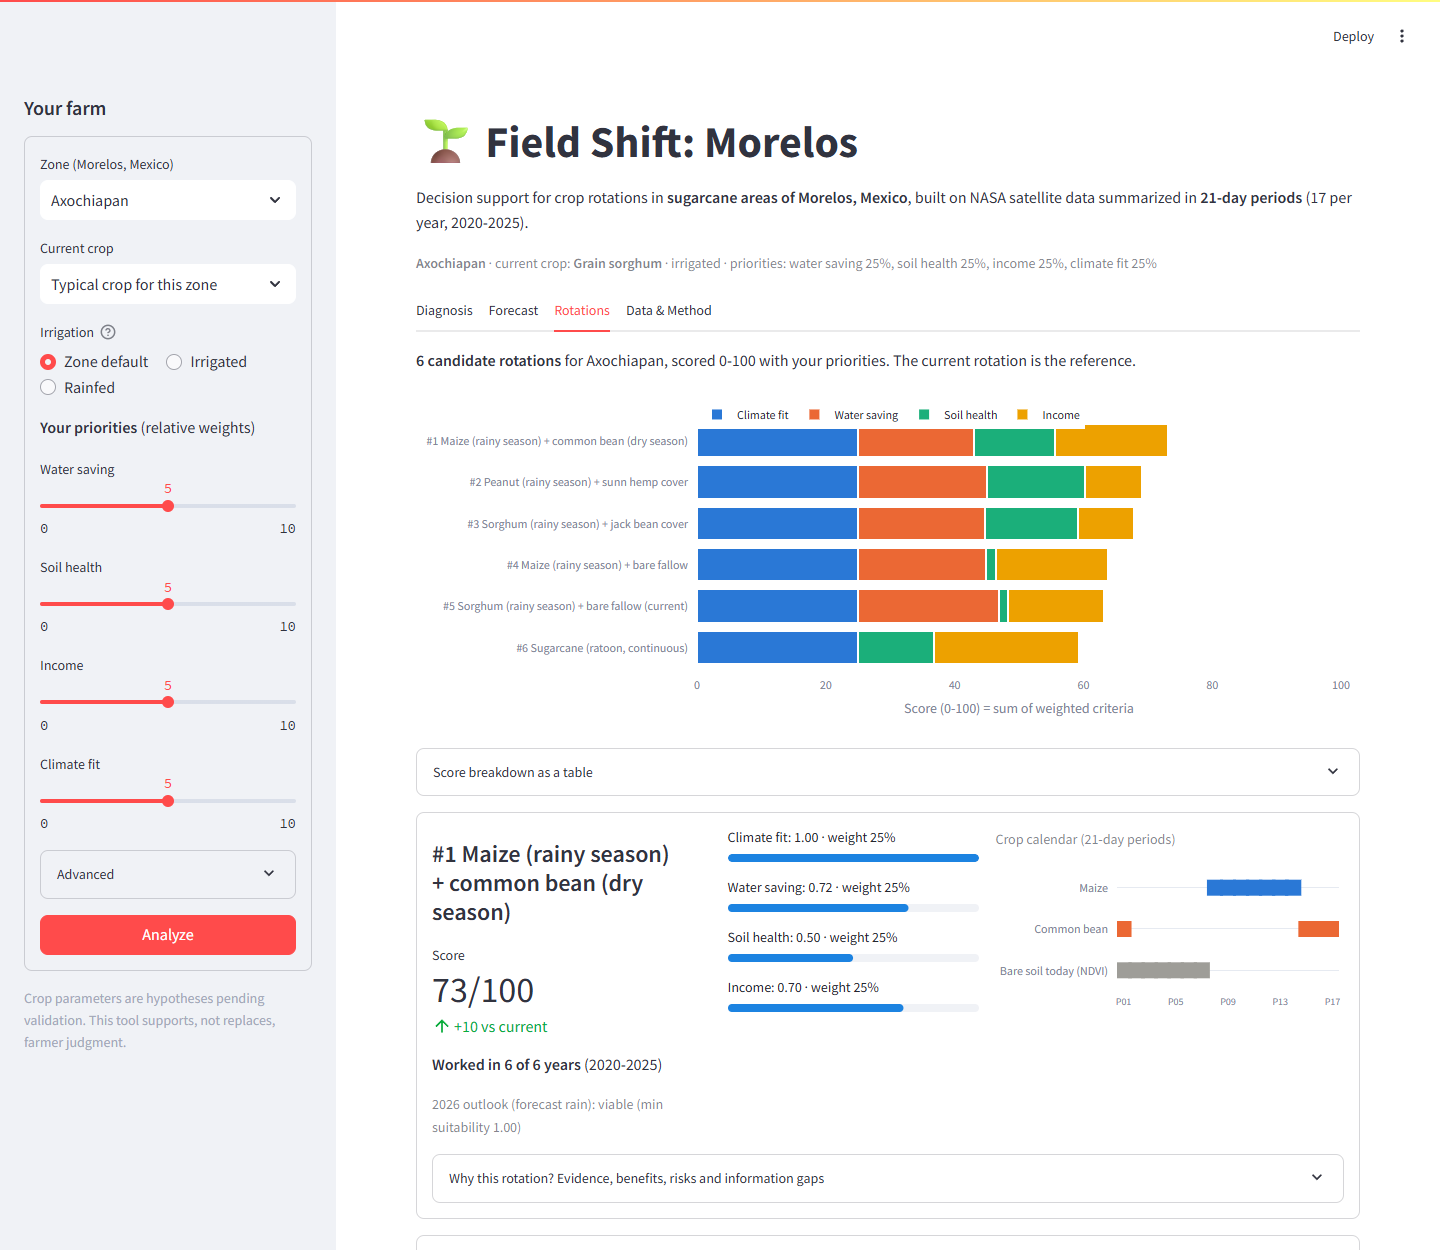
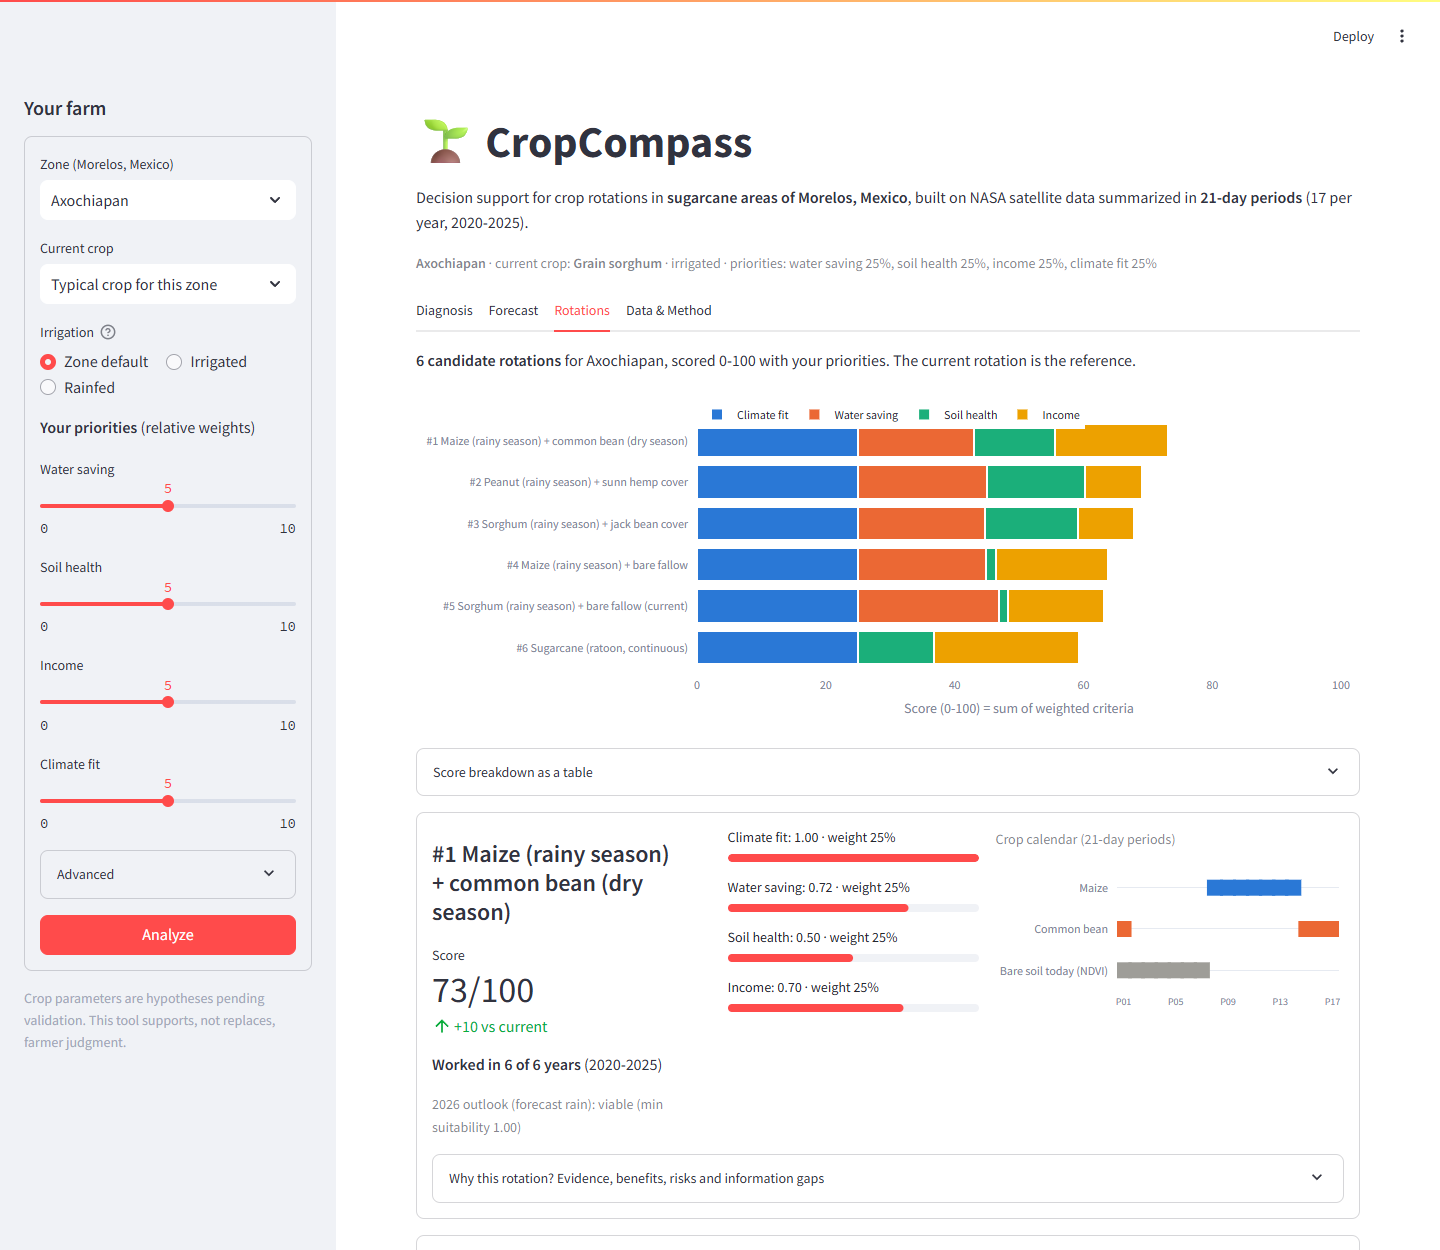
Rename the project to CropCompass
App title, README heading, package docstring and the app smoke test; screenshots in docs/ retaken.

Changed region(s): [[0.5, 0.6552, 0.6562, 0.8112], [0.3438, 0.0936, 0.5938, 0.1248]]

diff --git a/app/streamlit_app.py b/app/streamlit_app.py
@@ -23,7 +23,7 @@ from core import periodos as P
 from core import pronostico as F
 from core import rotaciones as R
 
-APP_TITLE = "Field Shift: Morelos"   # nombre provisional del proyecto (cambiar aquí)
+APP_TITLE = "CropCompass"   # nombre del proyecto
 
 # Paleta validada (skill dataviz, slots 1-4 en orden fijo; pasa CVD en claro y oscuro)
 COLOR_CRITERIO = {"climate": "#2a78d6", "water": "#eb6834", "soil": "#1baf7a", "income": "#eda100"}

diff --git a/tests/test_app.py b/tests/test_app.py
@@ -28,7 +28,7 @@ def _problemas(at):
 def test_app_corre_en_cada_zona(zona):
     at = _correr(zona)
     assert _problemas(at) == []
-    assert at.title[0].value.endswith("Field Shift: Morelos")
+    assert at.title[0].value.endswith("CropCompass")
     assert len(at.tabs) == 4
 
 

diff --git a/core/__init__.py b/core/__init__.py
@@ -1,1 +1,1 @@
-"""Field Shift (Morelos): lógica pura del backend, sin Streamlit."""
+"""CropCompass (Field Shift, Morelos): lógica pura del backend, sin Streamlit."""

diff --git a/README.md b/README.md
@@ -1,4 +1,4 @@
-# Field Shift: Morelos
+# CropCompass
 
 **NASA Space Apps Challenge 2026 · *Field Shift: Adapting Farms with NASA Data***
 
